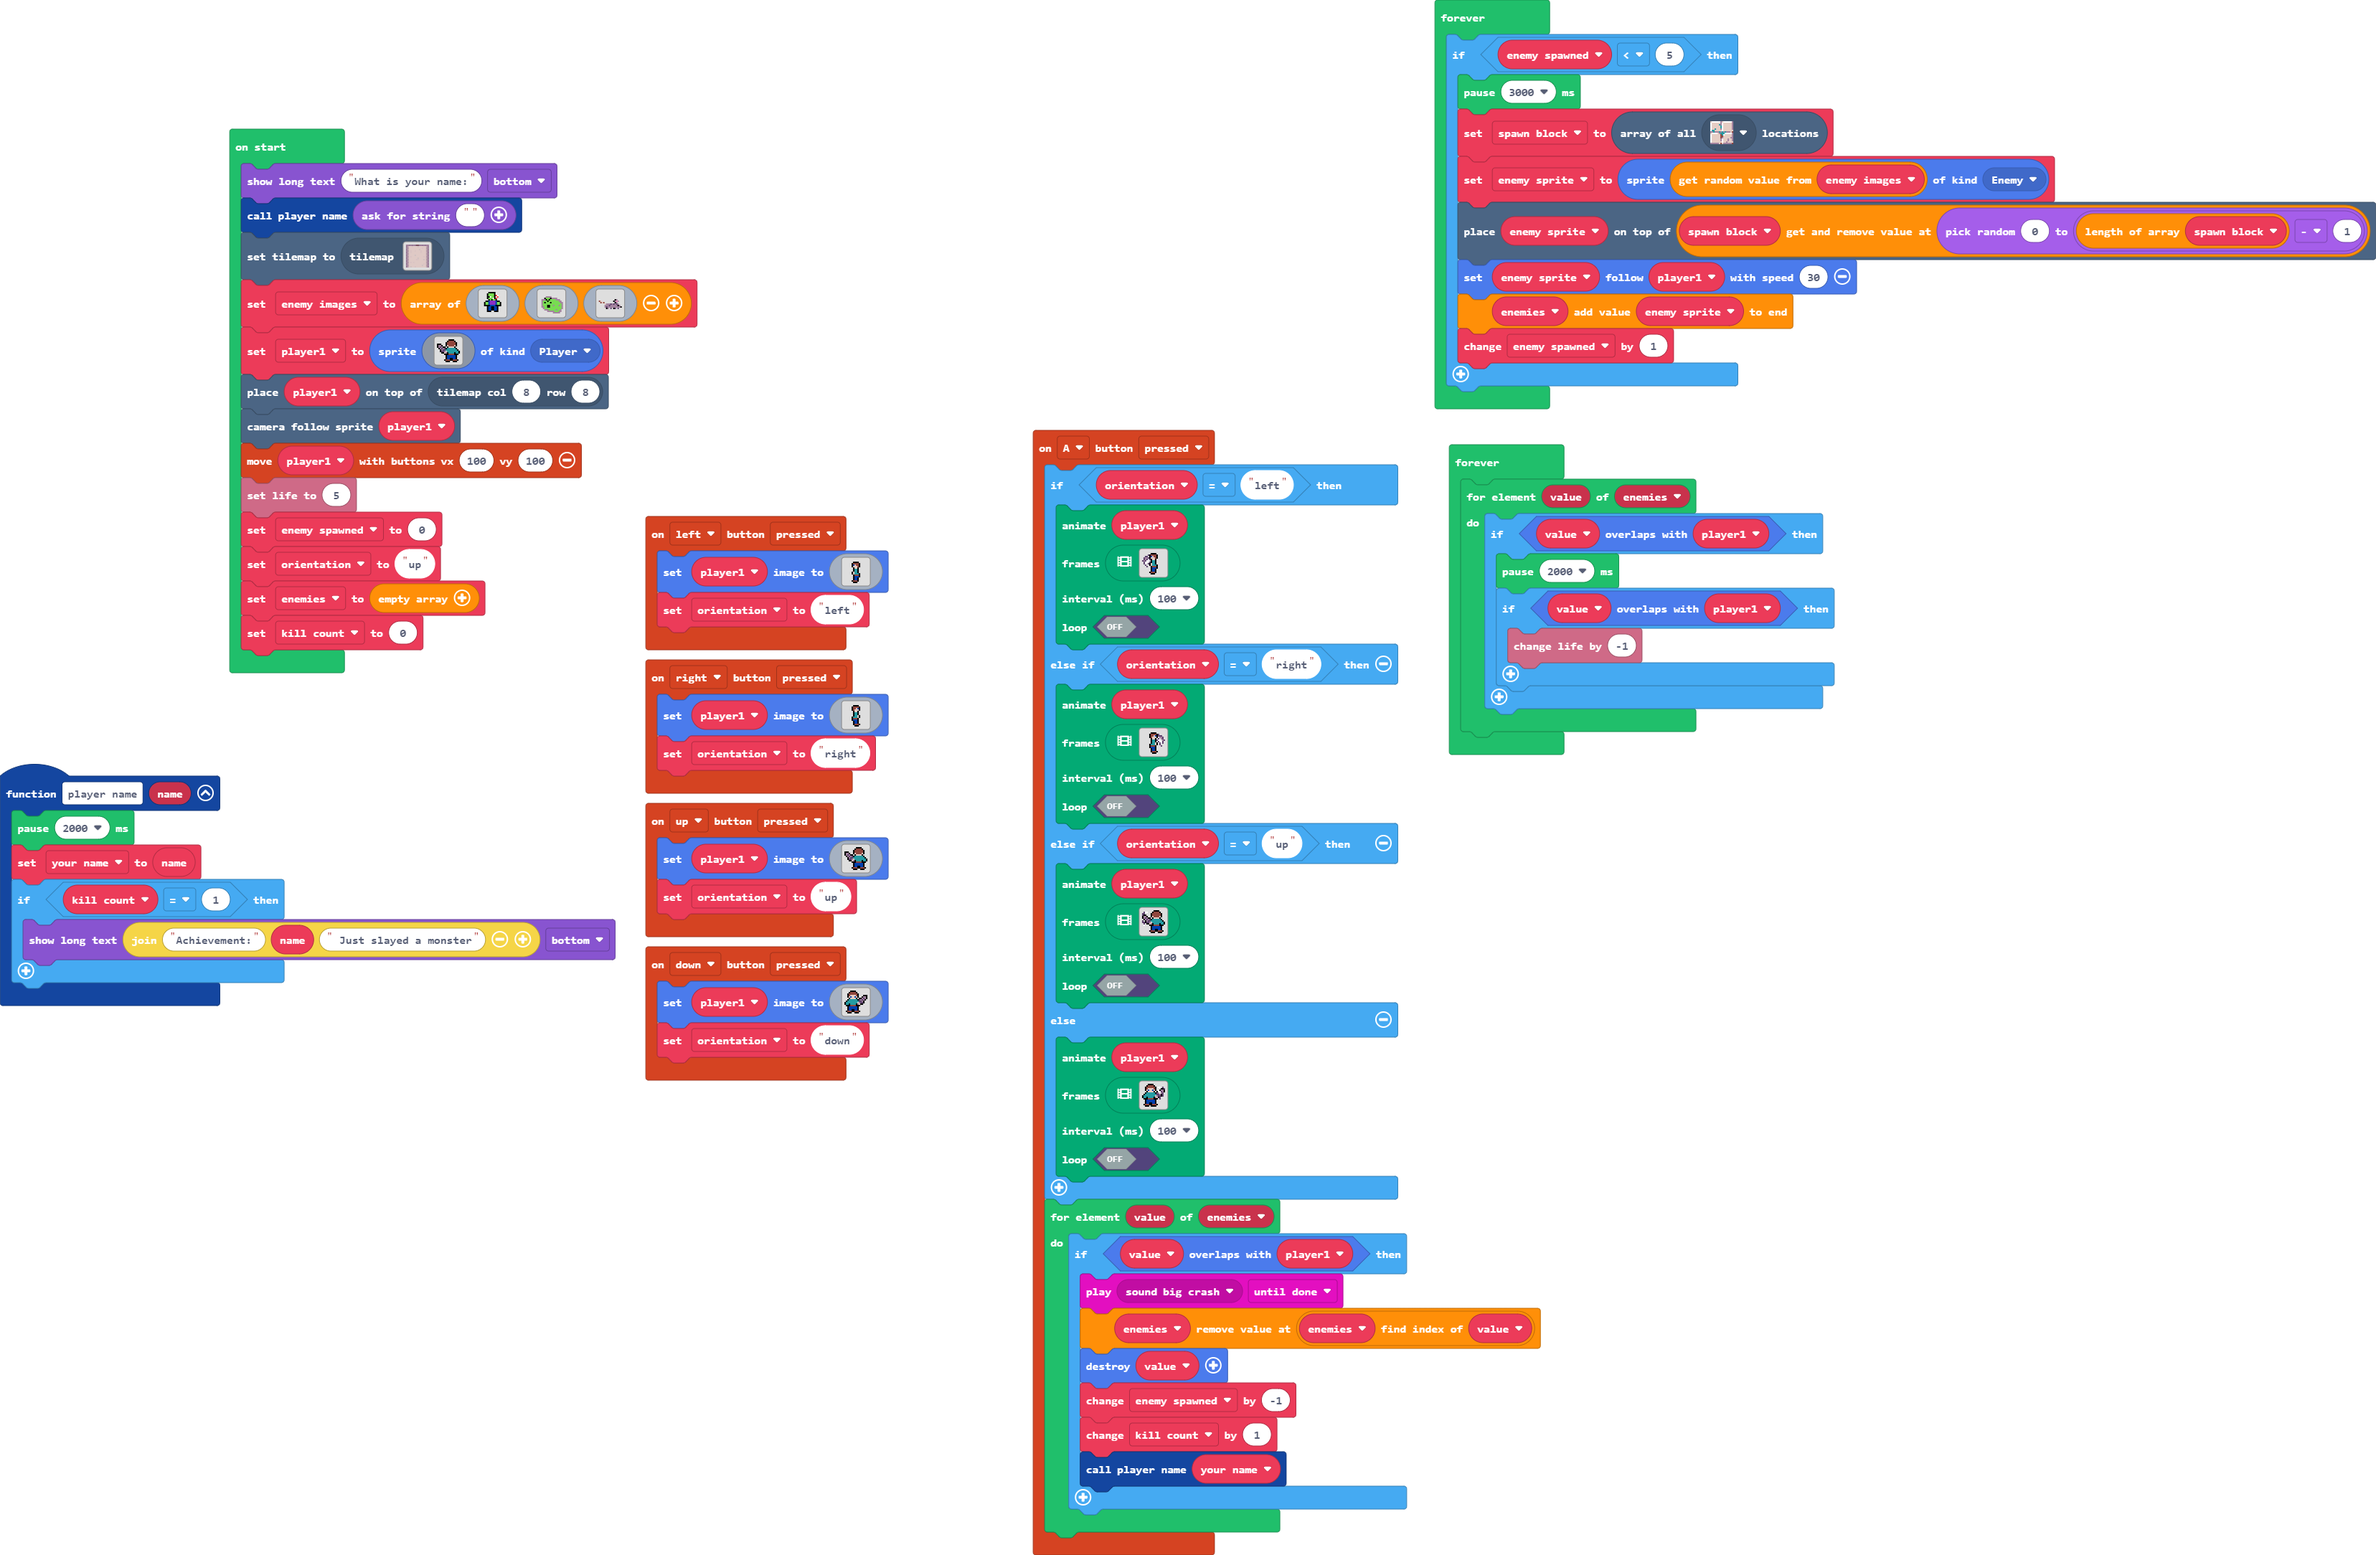
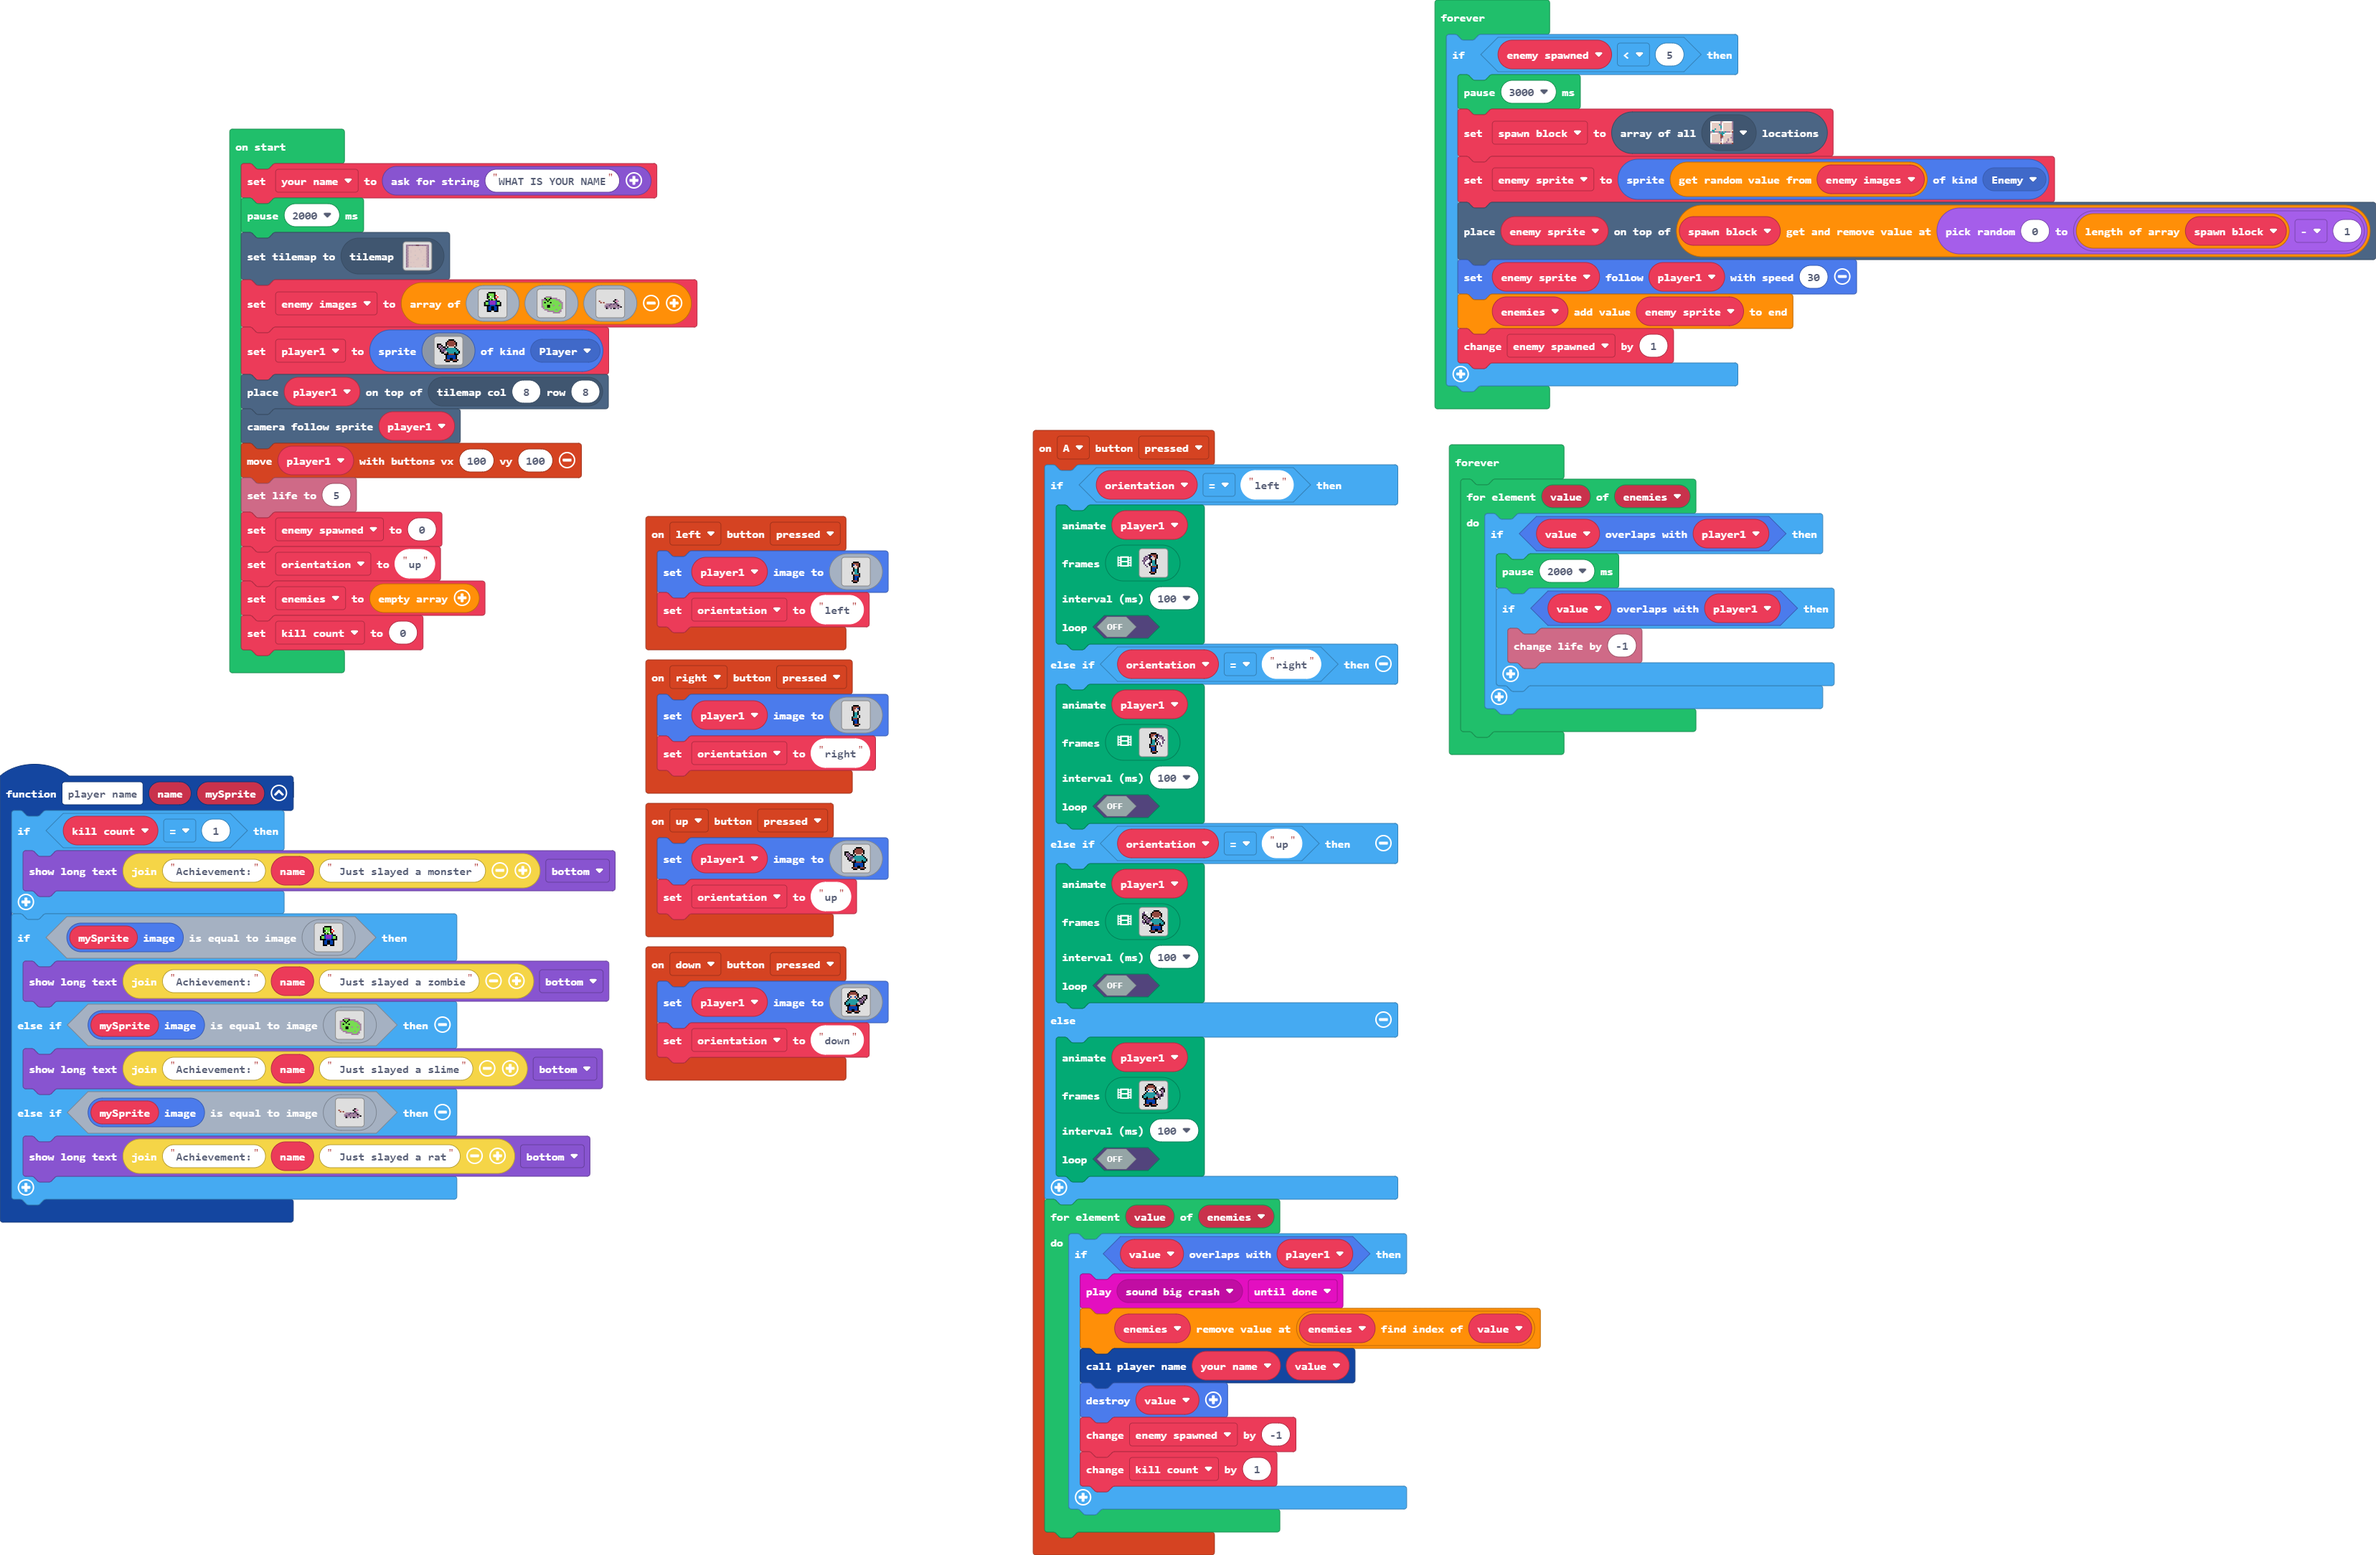
Update main.blocks, main.ts, tilemap.g.jres, tilemap.g.ts

Changed region(s): [[0.0, 0.4945, 0.2799, 0.8035], [0.4354, 0.8653, 0.5909, 0.958], [0.0933, 0.0927, 0.2799, 0.1545]]

diff --git a/main.ts b/main.ts
@@ -240,18 +240,74 @@ controller.A.onEvent(ControllerButtonEvent.Pressed, function () {
         if (value.overlapsWith(player1)) {
             music.play(music.melodyPlayable(music.bigCrash), music.PlaybackMode.UntilDone)
             enemies.removeAt(enemies.indexOf(value))
+            player_name(your_name, value)
             sprites.destroy(value)
             enemy_spawned += -1
             kill_count += 1
-            player_name(your_name)
         }
     }
 })
-function player_name (name: string) {
-    pause(2000)
-    your_name = name
+function player_name (name: string, mySprite: Sprite) {
     if (kill_count == 1) {
         game.showLongText("Achievement:" + name + " Just slayed a monster", DialogLayout.Bottom)
+    }
+    if (mySprite.image.equals(img`
+        . . . . . f f f f f . . . . . . 
+        . . . . f 7 7 7 7 f 1 . . . . . 
+        . . . . f 7 7 7 7 f 2 1 . . . . 
+        . . . . f f 1 7 7 f 1 2 . . . . 
+        . . . . f 7 7 7 1 f 2 . . . . . 
+        . . . . . f 7 f 7 7 f . . . . . 
+        . . . f f 8 a a a a 8 f f . . . 
+        . . f 7 7 8 a a a a 8 7 7 f . . 
+        . . f 7 7 8 a a a a 8 7 7 f . . 
+        . . f f f f 8 8 8 8 f f f f . . 
+        . . . . f 8 8 f f 8 8 f . . . . 
+        . . . . f 8 8 f f 8 8 f . . . . 
+        . . . . f 8 8 f f 8 8 f . . . . 
+        . . . . f f f . . f f f . . . . 
+        . . . . . . . . . . . . . . . . 
+        . . . . . . . . . . . . . . . . 
+        `)) {
+        game.showLongText("Achievement:" + name + " Just slayed a zombie", DialogLayout.Bottom)
+    } else if (mySprite.image.equals(img`
+        . . . . . . . . . . . . . . . . 
+        . . . . . . . . . . . . . . . . 
+        . . . . . . . . . . . . . . . . 
+        . . . . b b b b . . . . . . . . 
+        . . . f 7 7 7 f b b b b . . . . 
+        . b b b f 7 f 7 7 7 7 b b b . . 
+        . b 7 7 7 f 7 7 7 7 7 7 7 b b . 
+        . b 7 f 7 7 7 f 7 7 7 7 7 7 b b 
+        . b 7 7 7 7 7 7 7 7 7 7 7 7 7 b 
+        . b 7 7 7 f f 7 7 b 7 7 7 b 7 b 
+        . b b 7 7 f f 7 7 7 7 7 7 7 7 b 
+        . . b 7 7 7 7 7 7 7 7 7 7 7 7 b 
+        . . . b b b 7 7 7 7 7 b 7 7 b . 
+        . . . . . b b b b b 7 7 7 b b . 
+        . . . . . . . . . b b b b b . . 
+        . . . . . . . . . . . . . . . . 
+        `)) {
+        game.showLongText("Achievement:" + name + " Just slayed a slime", DialogLayout.Bottom)
+    } else if (mySprite.image.equals(img`
+        . . . . . . . . . . . . . . . . 
+        . . . . . . . . . . . . . . . . 
+        . . . . . . . . . . . . . . . . 
+        . . . . . . . . . . . . . . . . 
+        . . . . . . . . . . . . . . . . 
+        . . . . . . . . . . . f b . . . 
+        e d . . . . . . . . f b 3 b . . 
+        . e d e . . . . . . . f b . . . 
+        . . . . d b b b c b c b c b . . 
+        . . . . b b b c b b b b b f b . 
+        . . . . b c b b b b b b b b b f 
+        . . . . . f b . c . f c . c . . 
+        . . . . . . . . . . . . . . . . 
+        . . . . . . . . . . . . . . . . 
+        . . . . . . . . . . . . . . . . 
+        . . . . . . . . . . . . . . . . 
+        `)) {
+        game.showLongText("Achievement:" + name + " Just slayed a rat", DialogLayout.Bottom)
     }
 }
 controller.left.onEvent(ControllerButtonEvent.Pressed, function () {
@@ -319,13 +375,13 @@ controller.down.onEvent(ControllerButtonEvent.Pressed, function () {
 })
 let enemy_sprite: Sprite = null
 let spawn_block: tiles.Location[] = []
-let your_name = ""
 let kill_count = 0
 let enemies: Sprite[] = []
 let orientation = ""
 let player1: Sprite = null
-game.showLongText("What is your name:", DialogLayout.Bottom)
-player_name(game.askForString(""))
+let your_name = ""
+your_name = game.askForString("WHAT IS YOUR NAME")
+pause(2000)
 tiles.setCurrentTilemap(tilemap`level`)
 let enemy_images = [img`
     . . . . . f f f f f . . . . . . 

diff --git a/tilemap.g.ts b/tilemap.g.ts
@@ -83,6 +83,44 @@ namespace myTiles {
 . . . . . . . . . . . . . . . . 
 . . . . . . . . . . . . . . . . 
 `, [myTiles.transparency16,myTiles.tile3,myTiles.tile2,myTiles.tile5,myTiles.tile6,myTiles.tile7,myTiles.tile8,myTiles.tile9,myTiles.tile10,myTiles.tile11,myTiles.tile12,myTiles.tile14,myTiles.tile15,myTiles.tile16,myTiles.tile17,myTiles.tile18,myTiles.tile19,myTiles.tile20], TileScale.Sixteen);
+            case "level3":
+            case "level3":return tiles.createTilemap(hex`1000100000000000000000000000000000000000000000000000000000000000000000000000000000000000000000000000000000000000000000000000000000000000000000000000000000000000000000000000000000000000000000000000000000000000000000000000000000000000000000000000000000000000000000000000000000000000000000000000000000000000000000000000000000000000000000000000000000000000000000000000000000000000000000000000000000000000000000000000000000000000000000000000000000000000000000000000000000000000000000000000000000000000000000000000000000000000`, img`
+. . . . . . . . . . . . . . . . 
+. . . . . . . . . . . . . . . . 
+. . . . . . . . . . . . . . . . 
+. . . . . . . . . . . . . . . . 
+. . . . . . . . . . . . . . . . 
+. . . . . . . . . . . . . . . . 
+. . . . . . . . . . . . . . . . 
+. . . . . . . . . . . . . . . . 
+. . . . . . . . . . . . . . . . 
+. . . . . . . . . . . . . . . . 
+. . . . . . . . . . . . . . . . 
+. . . . . . . . . . . . . . . . 
+. . . . . . . . . . . . . . . . 
+. . . . . . . . . . . . . . . . 
+. . . . . . . . . . . . . . . . 
+. . . . . . . . . . . . . . . . 
+`, [myTiles.transparency16], TileScale.Sixteen);
+            case "level4":
+            case "level4":return tiles.createTilemap(hex`1000100000000000000000000000000000000000000000000000000000000000000000000000000000000000000000000000000000000000000000000000000000000000000000000000000000000000000000000000000000000000000000000000000000000000000000000000000000000000000000000000000000000000000000000000000000000000000000000000000000000000000000000000000000000000000000000000000000000000000000000000000000000000000000000000000000000000000000000000000000000000000000000000000000000000000000000000000000000000000000000000000000000000000000000000000000000000`, img`
+. . . . . . . . . . . . . . . . 
+. . . . . . . . . . . . . . . . 
+. . . . . . . . . . . . . . . . 
+. . . . . . . . . . . . . . . . 
+. . . . . . . . . . . . . . . . 
+. . . . . . . . . . . . . . . . 
+. . . . . . . . . . . . . . . . 
+. . . . . . . . . . . . . . . . 
+. . . . . . . . . . . . . . . . 
+. . . . . . . . . . . . . . . . 
+. . . . . . . . . . . . . . . . 
+. . . . . . . . . . . . . . . . 
+. . . . . . . . . . . . . . . . 
+. . . . . . . . . . . . . . . . 
+. . . . . . . . . . . . . . . . 
+. . . . . . . . . . . . . . . . 
+`, [myTiles.transparency16], TileScale.Sixteen);
         }
         return null;
     })
